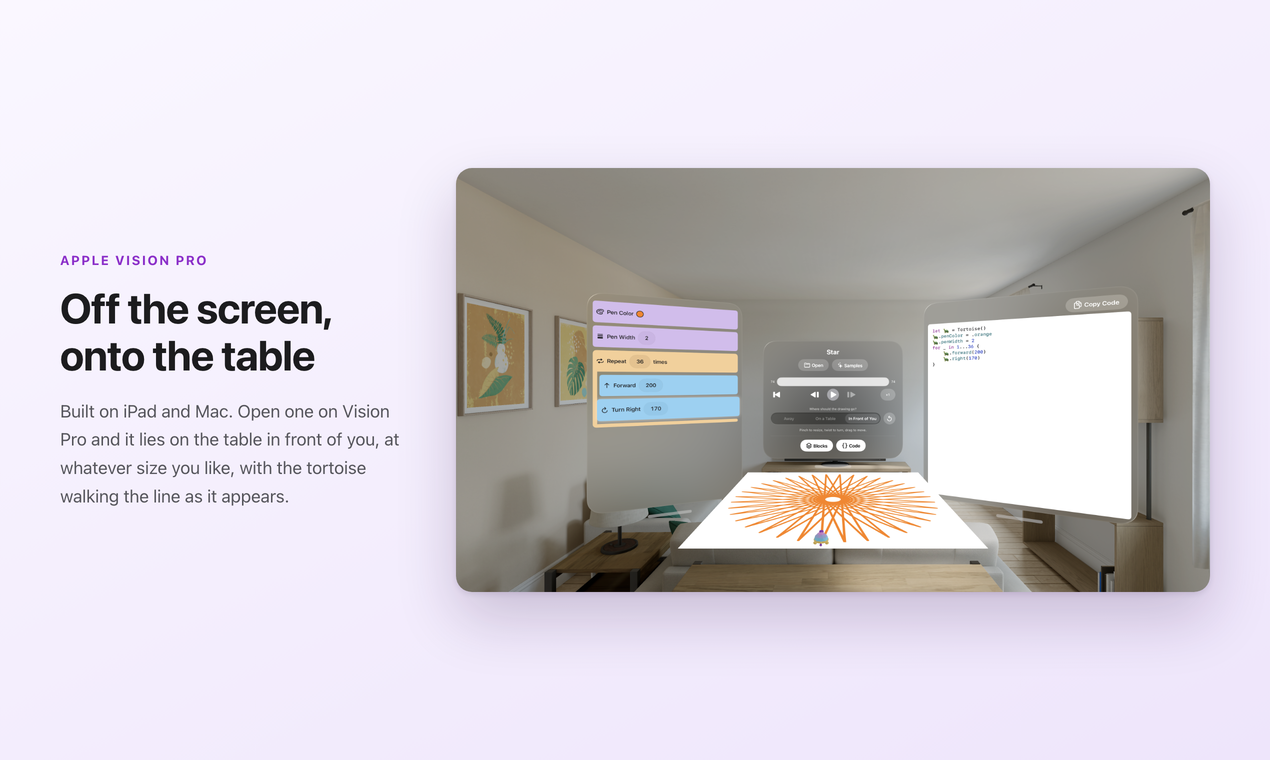
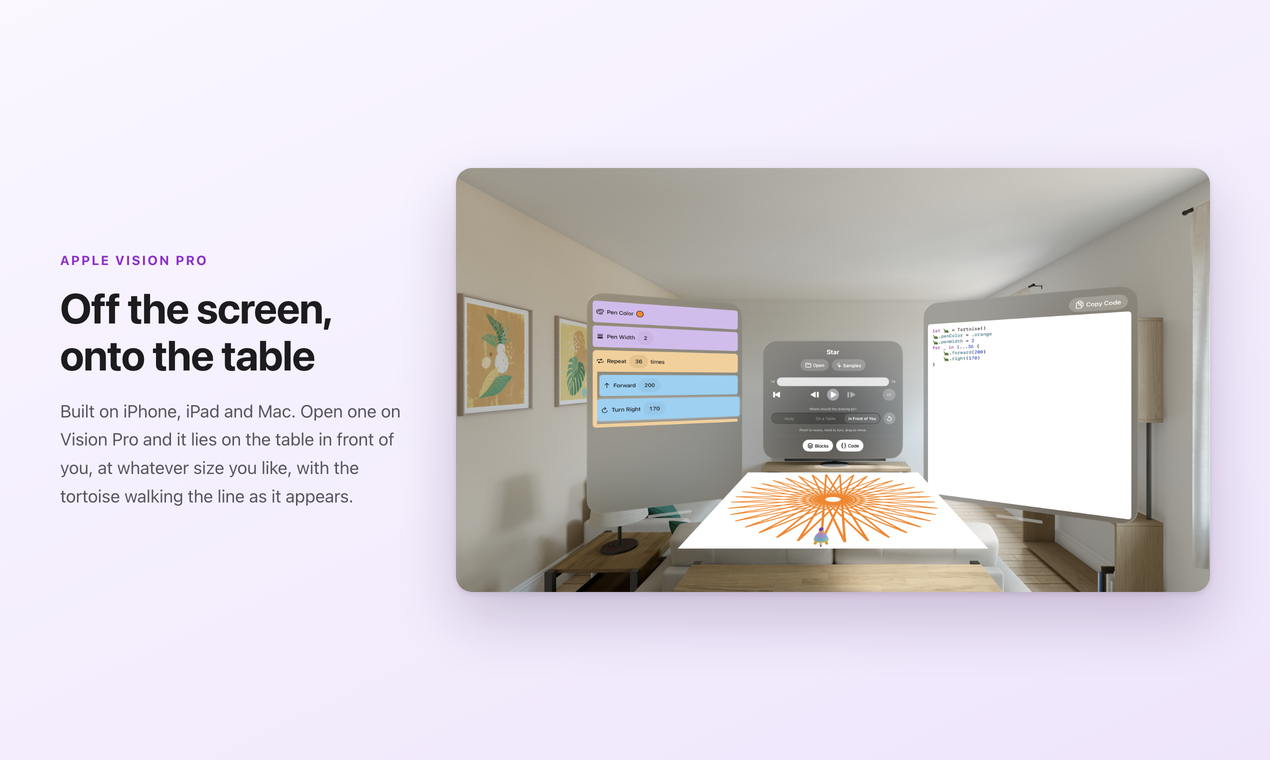
Rebuild the Product Hunt gallery from the 1.4.0 captures
Images 1-4 are re-rendered from the current App Store captures, which carry
the new canvas toggle and, on Vision Pro, the redrawn tortoise. The Mac crop
widens to the left by 17px at full size: since the 1.2.0 captures the block
column sits that much further left, and at the old box the rows ran almost
into its edge. The right edge is unchanged, so the window corner still clears
the rounded crop.

The Vision Pro card now says the app is built on iPhone as well, which it has
been since 1.3.0, and the notes point the gallery at the reshot teaser.

Image 5 and the thumbnail rebuilt with a few pixels of rendering noise and
are left as they were.

diff --git a/docs/product-hunt/gallery.html b/docs/product-hunt/gallery.html
@@ -62,9 +62,11 @@
   .wide .eyebrow { margin-bottom: 12px; }
 
   /* macOS のキャプチャ(2880x1800)から、ブロックの列とコードの列だけを
-     切り出す。切り抜き枠は原寸で x=620 y=152 w=2078 h=950。倍率は
-     1150/2078 = 0.5534 なので、画像は 2880*0.5534 = 1594px 幅で置き、
-     左に 620*0.5534 = 343px、上に 152*0.5534 = 84px ずらす。
+     切り出す。切り抜き枠は原寸で x=603 y=152 w=2095 h=958。倍率は
+     1150/2095 = 0.5489 なので、画像は 2880*0.5489 = 1581px 幅で置き、
+     左に 603*0.5489 = 331px、上に 152*0.5489 = 83px ずらす。
+     1.2.0 の後の撮り直しでブロックの列が原寸 17px 左に寄ったので、右端は
+     そのままに左端だけ広げてある。
      パレット列とウインドウ枠を落とす代わりに、コードが読める大きさになる。
      右上を数px内側に寄せてあるのは、ウインドウの角丸の外の紫の地が
      三日月形に写り込むため。枠を動かすときはそこを見ること。 */
@@ -74,7 +76,7 @@
   }
   .crop img {
     display: block; position: relative; max-width: none;
-    width: 1594px; left: -343px; top: -84px;
+    width: 1581px; left: -331px; top: -83px;
   }
 
   /* ---- 5枚目: 文字だけのカード ------------------------------------ */
@@ -145,7 +147,7 @@
   <div class="copy">
     <p class="eyebrow">Apple Vision Pro</p>
     <h1>Off the screen,<br>onto the table</h1>
-    <p class="sub">Built on iPad and Mac. Open one on Vision Pro and it lies on
+    <p class="sub">Built on iPhone, iPad and Mac. Open one on Vision Pro and it lies on
       the table in front of you, at whatever size you like, with the tortoise
       walking the line as it appears.</p>
   </div>

diff --git a/docs/product-hunt/README.md b/docs/product-hunt/README.md
@@ -147,7 +147,7 @@ evenings otherwise.
 | 5 | [5-nothing-collected.png](5-nothing-collected.png) | （文字だけのカード） |
 
 Thumbnail は [thumbnail-240.png](thumbnail-240.png)。動画は
-`https://youtu.be/b2wOul8UPWA` をギャラリー先頭に。
+`https://youtu.be/3lmWw37Da-U` をギャラリー先頭に。
 
 iPad のキャプチャのステータスバーは、撮影ロケールの言語で撮影日の日付が入る
 （`Tools/ipad-shots.rb` がシミュレータの言語を切り替えて撮る）。
